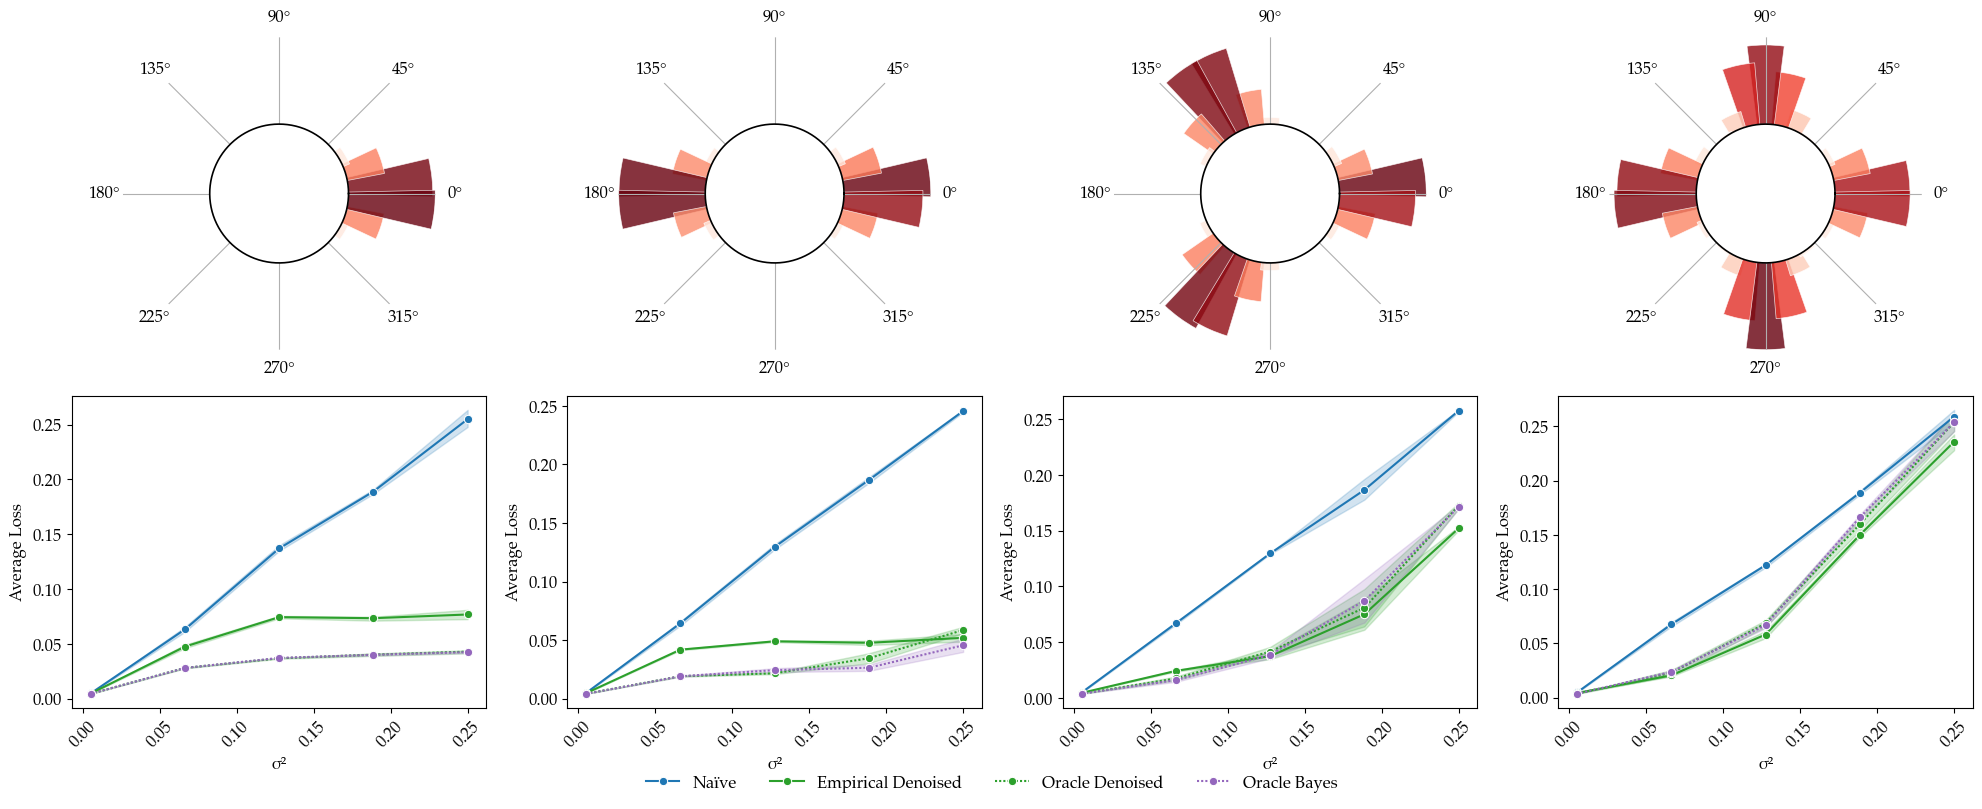
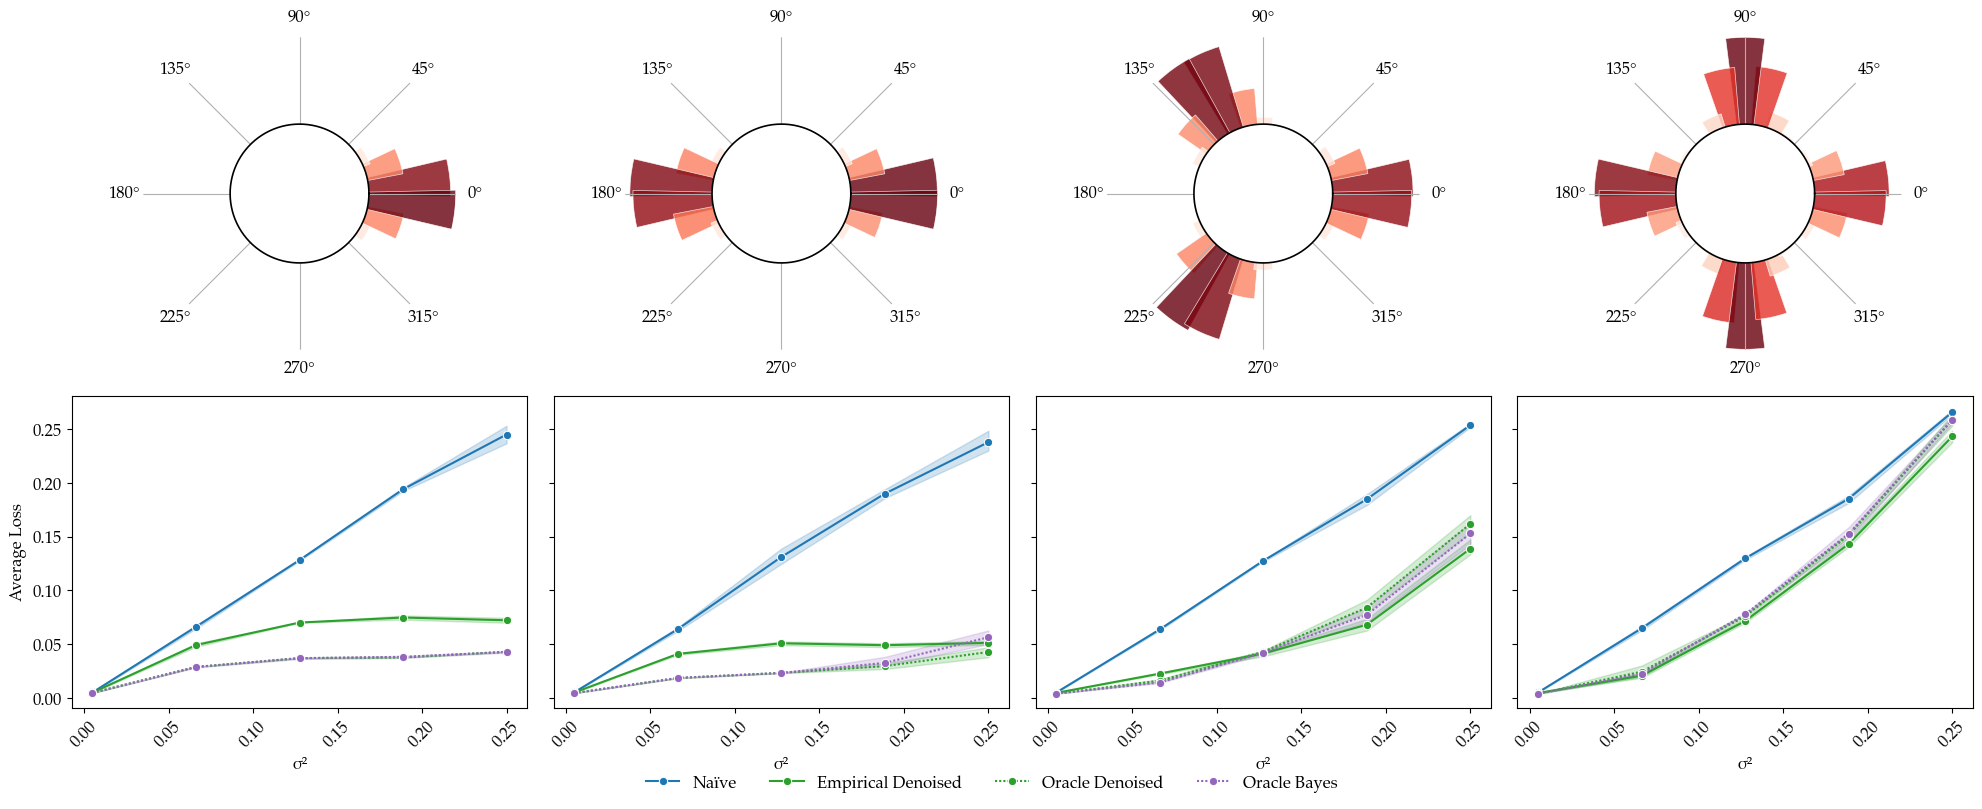
fixed oracle

diff --git a/src/simulations/src/sims.py b/src/simulations/src/sims.py
@@ -112,7 +112,7 @@ def mcsims_IncreasingN(manifold_type,num_modes_ls, tau2_ls, n_samples_ls, M_ls, 
                 )
 
                 for ixrho, rho in enumerate(rho_ls):
-                    delta = denoiser('S1', X, M, rho, sigma2, test_X)
+                    delta = denoiser(manifold_type, X, M, rho, sigma2, test_X)
                     delta_by_rho_losses[imc, ixrho] = (
                         manifold.metric.dist_broadcast(delta, test_Theta)**2
                     ).mean()
@@ -151,3 +151,72 @@ def mcsims_IncreasingN(manifold_type,num_modes_ls, tau2_ls, n_samples_ls, M_ls, 
         value_name="Loss",
     )
     return df_long
+
+
+
+
+# def mcsims_IncreasingN(manifold_type,num_modes_ls, tau2_ls, n_samples_ls, M_ls, rho_ls, sigma2,test_size, num_oracle_samples, oracle_bandwidth, NMC):
+#     # ...existing code...
+
+#     all_records = []
+
+#     rho_stars = {
+#         nm: np.zeros(len(n_samples_ls)) for nm in num_modes_ls
+#     }
+
+#     for num_modes, tau2, M in zip(num_modes_ls, tau2_ls, M_ls):
+
+#         G_params = {'tau2': tau2, 'num_modes': num_modes}
+
+#         for ixn, n_samples in enumerate(n_samples_ls):
+
+#             loss_Ns, loss_oracleTs = [], []
+
+#             delta_by_rho_losses = np.zeros((NMC, len(rho_ls)))
+
+#             for imc in tqdm(range(NMC), desc=f'modes={num_modes}, n={n_samples}', leave=False):
+#                 # ...existing code...
+#                 pass
+
+#             # select rho and keep only its losses
+#             rho_star_idx = np.argmin(delta_by_rho_losses.mean(axis=0))
+#             rho_stars[num_modes][ixn] = rho_ls[rho_star_idx]
+#             loss_Ts = delta_by_rho_losses[:, rho_star_idx]
+
+#             all_records.append(pd.DataFrame({
+#                 "num_modes": [num_modes] * NMC,
+#                 "tau2": [tau2] * NMC,
+#                 "sigma2": [sigma2] * NMC,
+#                 "rho": [rho_ls[rho_star_idx]] * NMC,
+#                 "num_samples": [n_samples] * NMC,
+#                 "mc": np.arange(NMC),
+#                 "Empirical Denoised": loss_Ts,
+#                 "Naïve": loss_Ns,
+#                 "Oracle Denoised": loss_oracleTs
+#             }))
+
+#     df = pd.concat(all_records, ignore_index=True)
+
+#     # IMPORTANT: keep tau2/sigma2 so plotting can subset correctly
+#     df_long = df.melt(
+#         id_vars=["num_modes", "tau2", "sigma2", "num_samples", "mc", "rho"],
+#         value_vars=["Naïve", "Empirical Denoised", "Oracle Denoised"],
+#         var_name="Loss Type",
+#         value_name="Loss",
+#     )
+
+#     # Turn rho_stars dict into a tidy DF for plotting
+#     rho_star_records = []
+#     for nm in num_modes_ls:
+#         for n, rho_star in zip(n_samples_ls, rho_stars[nm]):
+#             # tau2 is aligned with num_modes_ls by construction (zip above)
+#             tau2_for_nm = tau2_ls[num_modes_ls.index(nm)]
+#             rho_star_records.append({
+#                 "num_modes": nm,
+#                 "tau2": tau2_for_nm,
+#                 "num_samples": n,
+#                 "rho_star": float(rho_star),
+#             })
+#     df_rho_star = pd.DataFrame(rho_star_records)
+
+#     return df_long, df_rho_star

diff --git a/src/simulations/src/plot.py b/src/simulations/src/plot.py
@@ -107,29 +107,38 @@ def plot_mcsims_IncreasingN(manifold_type, df_long, num_modes_ls, tau2_ls, savef
 
         else:
             ValueError ( "Unsupported manifold type. Supported types are 'S1' and 'S2'." )
+        df_subset = df_long[df_long["num_modes"] == num_modes]
+
+        # Empirical Denoised line only
         sns.lineplot(
-            data=df_long[df_long['num_modes'] == num_modes],
+            data=df_subset[df_subset["Loss Type"] == "Empirical Denoised"],
             x="num_samples",
             y="Loss",
-            hue="Loss Type",
-            hue_order=["Naïve","Empirical Denoised", "Oracle Denoised", "Oracle Bayes"],
-            palette={
-                "Naïve": "C0",
-                "Empirical Denoised": "C2",
-                "Oracle Denoised": "C2",
-                "Oracle Bayes": "C4",
-            },
-            style="Loss Type",  # map linestyle to hue categories
-            dashes={
-                "Naïve": "",
-                "Empirical Denoised": "",
-                "Oracle Denoised": (1, 1),
-                "Oracle Bayes": (1, 1),
-            },
+            color="C2",
+            label="Empirical Denoised",
             estimator="mean",
             errorbar=("ci", 68),  # 1-sigma style band
             marker="o",
             ax=axs[1, idx],
+        )
+
+        # Dashed constant horizontal baselines: Naïve (average) and Oracle Denoised (average)
+        naive_mean = df_subset[df_subset["Loss Type"] == "Naïve"]["Loss"].mean()
+        oracle_denoised_mean = df_subset[df_subset["Loss Type"] == "Oracle Denoised"]["Loss"].mean()
+
+        axs[1, idx].axhline(
+            naive_mean,
+            color="C0",
+            linestyle=(0, (3, 3)),
+            linewidth=2,
+            label="Naïve (avg)",
+        )
+        axs[1, idx].axhline(
+            oracle_denoised_mean,
+            color="C2",
+            linestyle=(0, (3, 3)),
+            linewidth=2,
+            label="Oracle Denoised (avg)",
         )
         # single shared legend (one row) placed below all subplots
         handles, labels = axs[1, idx].get_legend_handles_labels()
@@ -155,3 +164,28 @@ def plot_mcsims_IncreasingN(manifold_type, df_long, num_modes_ls, tau2_ls, savef
 
     plt.show()
     return fig
+
+# sns.lineplot(
+#             data=df_long[df_long['num_modes'] == num_modes],
+#             x="num_samples",
+#             y="Loss",
+#             hue="Loss Type",
+#             hue_order=["Naïve","Empirical Denoised", "Oracle Denoised", "Oracle Bayes"],
+#             palette={
+#                 "Naïve": "C0",
+#                 "Empirical Denoised": "C2",
+#                 "Oracle Denoised": "C2",
+#                 "Oracle Bayes": "C4",
+#             },
+#             style="Loss Type",  # map linestyle to hue categories
+#             dashes={
+#                 "Naïve": "",
+#                 "Empirical Denoised": "",
+#                 "Oracle Denoised": (1, 1),
+#                 "Oracle Bayes": (1, 1),
+#             },
+#             estimator="mean",
+#             errorbar=("ci", 68),  # 1-sigma style band
+#             marker="o",
+#             ax=axs[1, idx],
+#         )